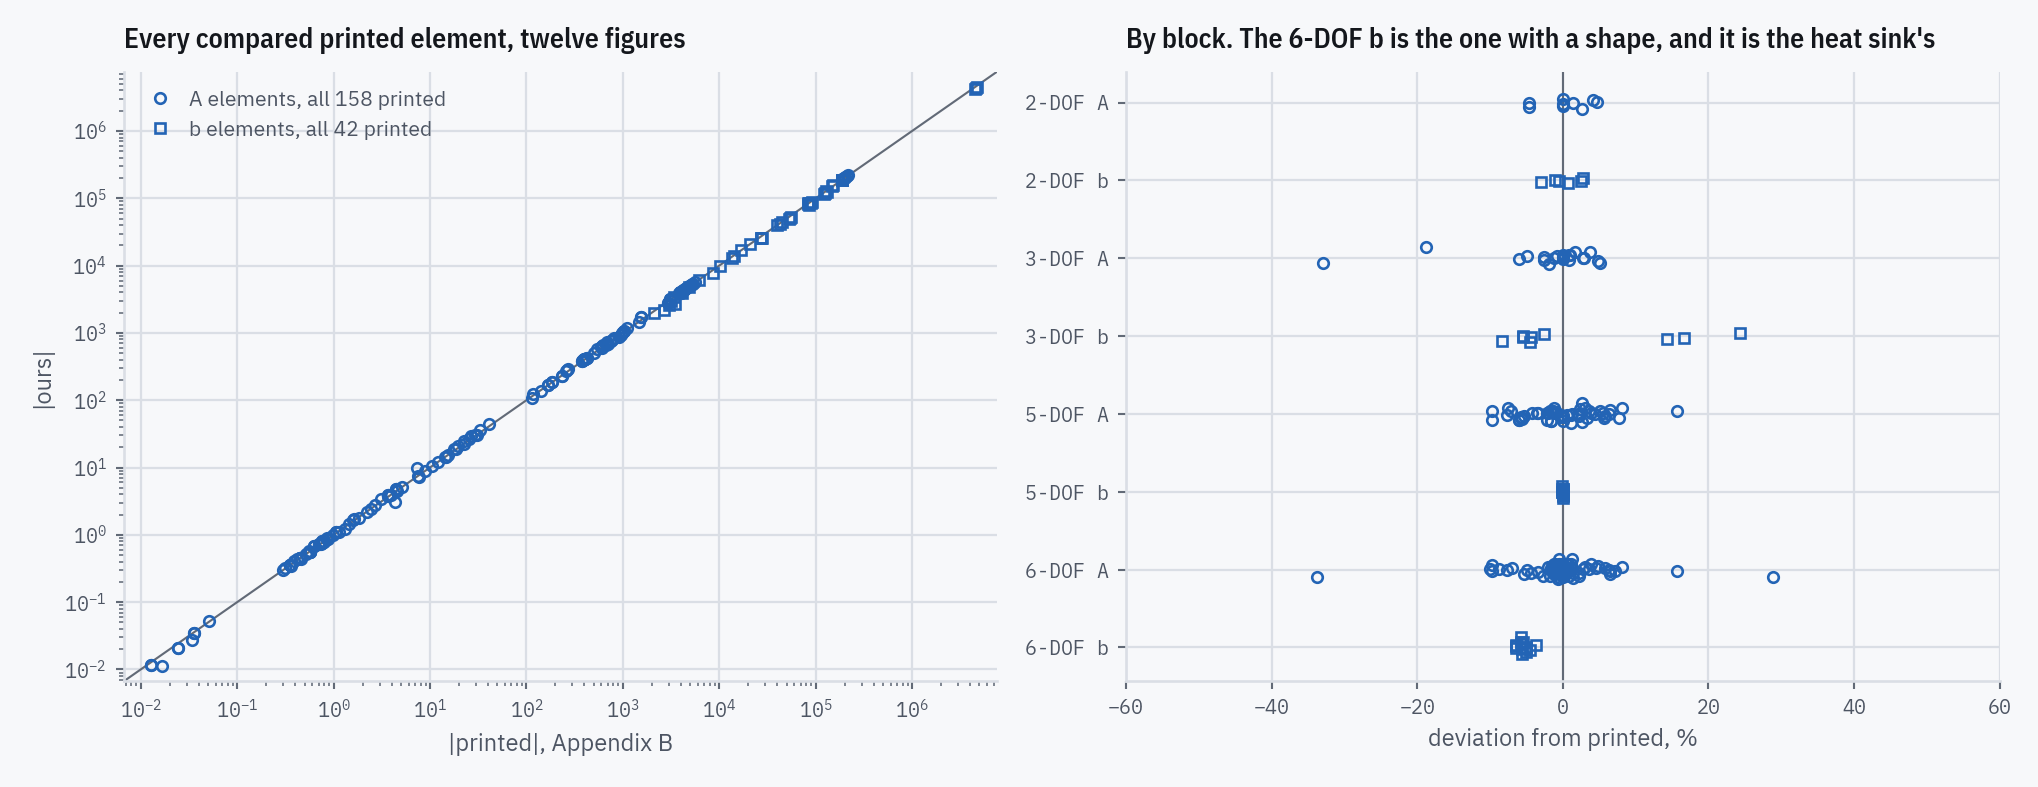
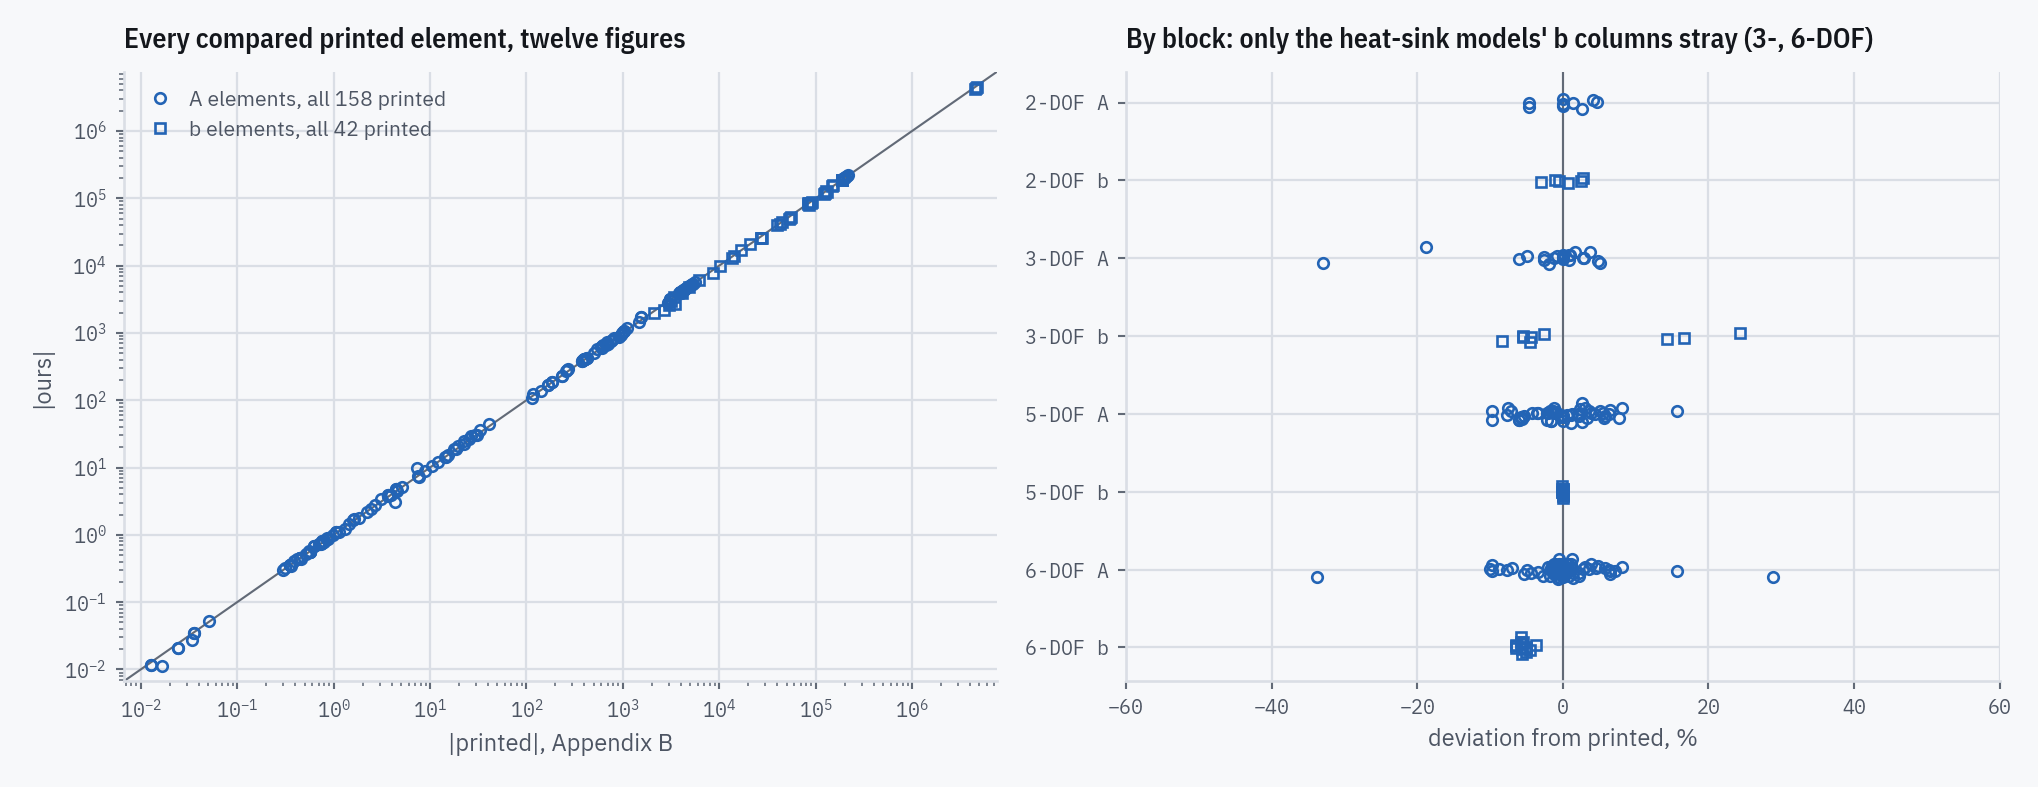
figure wording: "percent" for "per cent"; appendix-b block panel retitled
The Figures 6-8 misses picture and the prose around #83 now say "percent",
the spelling the presentation uses. The appendix-b-elements block panel said
the 6-DOF b was "the one with a shape"; the 3-DOF b strays too and for the
same reason (the heat-sink constant, #31), so the title now names both
heat-sink models. Only the two PNGs change; report.json and every other
figure are byte-identical.

Checked for the deck: with Appendix B's own heat-sink time constants the
6-DOF fuel column's NG, NP, P41 and P45 rows land within 0.2 % at all three
trims, while b(T41) moves from -3.7/-5.4/-5.8 % to +6.1/+5.5/+6.6 %.

Claude-Session: https://claude.ai/code/session_01RjvrKad8gE6F4A3xardmyd

Changed region(s): [[0.5873, 0.0305, 0.9583, 0.061]]

diff --git a/validation/report.py b/validation/report.py
@@ -162,7 +162,7 @@ FIG678_UNIT = {6: ("%NG", "%NG"), 7: ("shp", "shp"), 8: ("psia", "%")}
 """Each figure's miss in its own units, and what it is scored in. The absolute miss where a
 percentage misleads: Figure 6's speed is already a percentage, and Figure 7's shaft power
 falls to 9 shp at the low-power end, where the axis read error alone is 15 % of the value.
-Per cent of his value on Figure 8, whose Ps3 never falls below 60 psia."""
+Percent of his value on Figure 8, whose Ps3 never falls below 60 psia."""
 
 
 def _read_error(file: str, key: str) -> float:
@@ -254,9 +254,9 @@ def steady_sweeps() -> dict:
 
 
 def _steady_misses_picture(misses: dict) -> None:
-    """Each printed point's miss on Figures 6-8, in the figure's own units and in per cent of
+    """Each printed point's miss on Figures 6-8, in the figure's own units and in percent of
     his value, against the axis read error each file's header publishes: constant in units,
-    and in per cent growing as his value falls."""
+    and in percent growing as his value falls."""
     fig, axes = plt.subplots(2, 3, figsize=fs(16.5, 7.4))
     for col, (no, (x, y, absolute, percent, err)) in enumerate(sorted(misses.items())):
         spec = FIG678[no]
@@ -273,7 +273,7 @@ def _steady_misses_picture(misses: dict) -> None:
             top = max(np.abs(v).max(), err if ax is axes[0, col] else 0.0)
             ax.set_ylim(-1.25 * top, 1.25 * top)
             _style(ax, spec["xlabel"], ylabel)
-        for row, what in ((0, own), (1, "per cent of his value")):
+        for row, what in ((0, own), (1, "percent of his value")):
             axes[row, col].set_title(
                 f"Figure {no}, in {what}",
                 loc="left",
@@ -283,7 +283,7 @@ def _steady_misses_picture(misses: dict) -> None:
     plotstyle.title(
         fig,
         "Figures 6-8: each printed point of Ballin's real-time model, our miss in the figure's "
-        "units and in per cent",
+        "units and in percent",
     )
     fig.tight_layout(rect=(0, 0, 1, 0.955))
     save(fig, "figures-6-8-misses")
@@ -717,7 +717,7 @@ def appendix_b() -> dict:
         ax,
         "deviation from printed, %",
         "",
-        "By block. The 6-DOF b is the one with a shape, and it is the heat sink's",
+        "By block: only the heat-sink models' b columns stray (3-, 6-DOF)",
     )
     fig.tight_layout()
     save(fig, "appendix-b-elements")

diff --git a/validation/test_steady_sweeps.py b/validation/test_steady_sweeps.py
@@ -107,7 +107,7 @@ def test_figure_8_ps3_against_ng_tracks_across_the_range():
 def test_figure_7_shaft_power_tracks_across_the_range():
     """Shaft power against fuel flow over every printed point, in shaft horsepower.
 
-    In shp, not per cent: the low-power points fall to 9 shp, where the axis read error alone
+    In shp, not percent: the low-power points fall to 9 shp, where the axis read error alone
     is 15 % of the value, so a percentage there measures the denominator (#83).
     """
     x, y = read_reference("fig07_realtime.csv", "wf_pph", "shp")
@@ -223,7 +223,7 @@ SPEC = {
 
 
 def _spreads(fig: int, series: str):
-    """(Ballin - GE, ours - GE) on GE's own abscissae, in %NG or per cent."""
+    """(Ballin - GE, ours - GE) on GE's own abscissae, in %NG or percent."""
     stem, xc, yc, mode = SPEC[fig]
     bx, by = read_reference(f"{stem}_realtime.csv", xc, yc)
     gx, gy = read_reference(f"{stem}_{series}.csv", xc, yc)
@@ -239,7 +239,7 @@ def _spreads(fig: int, series: str):
 @pytest.mark.parametrize("series", ["ge_status81", "ge_unbalanced"])
 def test_our_distance_from_ge_is_comparable_to_ballins(fig: int, series: str):
     """We sit no further from the GE models than Ballin's own model does, give or take a
-    point and a half. Not a claim that we beat him: a deviation from Ballin of a per cent or
+    point and a half. Not a claim that we beat him: a deviation from Ballin of a percent or
     two is within the scatter of his own validation.
     """
     d_bal, d_our = _spreads(fig, series)
@@ -276,7 +276,7 @@ and 8), for the scatter argument to hold. Set below the measured worst."""
 
 def test_the_two_ge_models_disagree_with_each_other_substantially():
     """GE's own two models differ from each other by far more than we differ from Ballin:
-    whatever "agreement" meant in 1988, it did not mean a few tenths of a per cent.
+    whatever "agreement" meant in 1988, it did not mean a few tenths of a percent.
     """
     for fig in (6, 7, 8):
         stem, xc, yc, mode = SPEC[fig]

diff --git a/tests/test_control_blocks.py b/tests/test_control_blocks.py
@@ -138,7 +138,7 @@ def _tm_null_and_band() -> tuple[float, float]:
 
 @pytest.mark.parametrize("k", [-1.03, -0.97, 0.97, 1.03])
 def test_the_torque_motor_deadband_sits_where_the_printed_biases_put_it(k: float):
-    """Inside the band the integrator never moves; three per cent outside it, it does, and
+    """Inside the band the integrator never moves; three percent outside it, it does, and
     in the direction of the error. Moving the null or the band by 5 % flips one of these."""
     null, half = _tm_null_and_band()
     u = dataclasses.replace(HMU_BASE, spdg=null + k * half)

diff --git a/docs/notes/open-questions.md b/docs/notes/open-questions.md
@@ -97,4 +97,4 @@ gives unless it points to `results/report.json`.
 | 80 | **Which trim and which input do Figures 4 and 5 show?** Both captions say only "a high-power flight condition" [pdf pp.30, 34]; the fuel pulses are drawn, not stated. | Comparing our linear models' time response with Figures 4 and 5 | pdf pp.29-30, 33-34, read from the page images; Appendix B, pdf pp.68-76 | **closed 2026-10-13 — the hover trim, and the input as drawn.** Ballin's own printed hover matrices (B2, B1, and B2 reduced) reproduce Figure 4's linear-model line and Figure 5's 5-DOF curve; the level and descent matrices put Figure 4's first NP peak near 100.5-100.6 % where the figure plots about 100.84. The input is read by `tools/digitize_fig45.py`: four plateaus after trim on printed tick values (105, 95, 100, 102.5 % of trim, each within 0.34 % of panel height), steps at 0.27, 1.29, 2.25 and 5.00 s, the same on both pages within 6 ms. Ballin's 6-DOF curve cannot be recomputed from B8, which is unstable as printed (inventory-appendix-b.md 6), so his Figure 5 inner curve is the only record of it. Held by `validation/test_fig45.py`. |
 | 81 | **How are Figures 11-14 compared without Gen Hel, on what day, and with what collective scale?** Each is Gen Hel with the T700 against flight test [pdf pp.48-52]: a collective input at 90 kt, a lateral cyclic at 55 kt, a collective at hover and pedals at hover. The report prints neither the flight-test day, the gearbox ratio, nor the collective's travel: its figures plot the collective in inches, its fuel control reads it in "percent of maximum" [pdf p.81]. | Comparing our closed loop with Figures 11-14 | pdf pp.47-52 and 81, read from the page images | **closed 2026-10-14, every reading confirmed by the owner — two tests on his inputs as digitized, on a standard day, at his printed NG, the collective read proportionally.** Gen Hel drives the T700 through "a rigid-shaft drive train model" whose degree of freedom "corresponds to that of the drive train and rotor hub" [pdf p.47], so rotor speed in % is NP in %; everything the airframe does reaches the propulsion system through it except the collective, which the fuel control reads itself (Fig. C13, pdf p.90). The flight tests are "single-axis control inputs" [pdf p.47], so the lateral cyclic and pedal cases hold the collective. `validation/test_gen_hel.py` runs two tests (`test_gen_hel.run`). **Rotor speed imposed** (Figures 11-14): his printed main rotor speed is our NP every frame, and on Figures 11 and 13 his collective drives ours; NG, vehicle fuel flow and total torque are predicted. **Rotor free** (Figures 11-15): our rotor turns under the load his felt. With a rigid shaft his load was his engines' torque less J dω/dt, so our NP is his plus e, J de/dt = Q_ours − Q_his − slope·e, with Appendix B's inertia (#6) and slope: his lines go in as digitized, the 17 Hz ripple in the ink (Gen Hel's rotor, pdf p.50) included, and nothing of his is differentiated or smoothed. Figure 15 prints the main-rotor torque, Q_mr of Q_req = Q_mr + Q_tr + Q_acc [pdf p.28], which is the load itself, the tail rotor and accessories taken in proportion; its trim torque is his on our scale (the mean ratio of his torque to ours at Figures 11-14's trims, 65.7-69.0); its collective goes to "the full-down position" [pdf p.50], read as 0 % of maximum at his trace's floor. Readings: the day is standard; the trim is at his printed NG and rotor speed, with the collective at which our HMU commands that trim's fuel flow (`test_hmu_trim.collective_for`), settled in the closed loop with Appendix B's rotor load and slope. Collective scale: his axis starts at 0 in. and ours is percent of maximum, so 0 in. reads as 0 %, and each figure's trim gives its own scale, 8.8 % per inch on Figure 11 and 9.6 on Figure 13; the straight line through both trims would give 13.5. At his NG our engine needs about a fifth more fuel than his trims print, so the flight-test days were not standard (#82); fuel and torque are compared in % of their own trim. Where ours misses his line, the cause is measured in our control, nothing changed to find it: our fuel follows his collective through the HMU's load-demand path (Fig. C17) sooner than his, so on Figures 11 and 13 it turns back 0.07-0.14 s earlier and our rotor overspeeds less (100.46 against 100.77 %, 99.96 against 100.23 %); Figure 13's settled torque is 3 % low at the 9.6 %/in reading and would match at a scale a little below 8.8 %/in, the bottom of the range our two readings span (at 8.0 %/in it reads 84.0 % at 6 s, against his 83.2); at the end of Figure 14 our governor's cut is partly given back by the HMU droop as NG falls, and our fuel bottoms at 81 % of trim against his 76 %; on Figure 15 our fuel falls with the collective and then sits on the deceleration limit (Fig. C22) from 1.5 to 2.7 s, which still gives torque, so our rotor does not overspeed, slows at 1.0 %/s against his 3.2 %, and dips 0.74 s later, as deep. Kept as a recorded finding, by the owner's choice: on Figure 15 a flat line at the trim misses his rotor speed by 1.49 times ours, under the decoy ratio of 1.5, because our dip, as deep as his, comes 0.74 s late; the test is marked as an expected failure with that reason. Held by `validation/test_gen_hel.py`. |
 | 82 | **What day did Figures 11-14 fly, and what is the gearbox ratio?** Neither is printed [pdf pp.47-52]; on a standard day our engine needs about a fifth more fuel and a fifth more torque at his NG than his trims print, on every figure. | Comparing fuel and torque levels with Figures 11-14, and the trim the transients start from | pdf pp.47-52 read from the page images; Table B.1's trims are sea level standard [pdf p.67], these flights are not | **closed 2026-10-14 — the comparisons stay on a standard day; the two inferred days are evidence, never constants.** The owner chose this: the report prints no day. His eight trim numbers (fuel and torque, four figures) against our trims at his NG, his torque through one gearbox ratio shared by all four (`validation/test_flight_test_day.py`): A, 59 deg F on every day, fits with a pressure per figure (11.9-12.3 psia) and a ratio near 82, 0.6 % rms; B, one temperature common to the four days, fits eight times closer, 0.08 % rms, at about 79 deg F, 13.0-13.3 psia and a ratio near 89. Rerun on the inferred days, the transients improve a little on A (the rotor-free test's rotor speed on all four figures) and are mixed on B. Neither is adopted: the comparisons stay on a standard day, in % of trim (#81). |
-| 83 | **In what units is each of Figures 6-8 scored?** Each point's miss can be read in the figure's own units or in per cent of his value; the report states no score for these figures. | The steady-sweep scores (`report.py::steady_sweeps`, `test_steady_sweeps`) | Figures 6-8, pdf pp.40-42, every printed marker digitized (`tools/digitize_fig678.py`; overprinted ones are taken apart, recipe trap 13); each file's header publishes its axis read error | **closed 2026-10-15 by the owner — Figure 6 in %NG points, Figure 7 in shaft horsepower, Figure 8 in per cent.** Figure 7's low-power end falls to 9 shp, where its axis read error of 1.4 shp is 15 % of the value: in per cent one point there dominated the score (+0.98 shp read as +10.6 %), while in shp the low end is as close as anywhere. Figure 6's ordinate is already a percentage; Figure 8's Ps3 never falls below 60 psia. `report.json` carries both readings for all three figures (`steady.figure_N.absolute`, `.percent`), drawn point by point against the read error in `results/figures-6-8-misses.png`. Bounds: `test_steady_sweeps.FIG7_RMS_SHP` and `FIG7_WORST_SHP`, declared in SCOPE.md. |
+| 83 | **In what units is each of Figures 6-8 scored?** Each point's miss can be read in the figure's own units or in percent of his value; the report states no score for these figures. | The steady-sweep scores (`report.py::steady_sweeps`, `test_steady_sweeps`) | Figures 6-8, pdf pp.40-42, every printed marker digitized (`tools/digitize_fig678.py`; overprinted ones are taken apart, recipe trap 13); each file's header publishes its axis read error | **closed 2026-10-15 by the owner — Figure 6 in %NG points, Figure 7 in shaft horsepower, Figure 8 in percent.** Figure 7's low-power end falls to 9 shp, where its axis read error of 1.4 shp is 15 % of the value: in percent one point there dominated the score (+0.98 shp read as +10.6 %), while in shp the low end is as close as anywhere. Figure 6's ordinate is already a percentage; Figure 8's Ps3 never falls below 60 psia. `report.json` carries both readings for all three figures (`steady.figure_N.absolute`, `.percent`), drawn point by point against the read error in `results/figures-6-8-misses.png`. Bounds: `test_steady_sweeps.FIG7_RMS_SHP` and `FIG7_WORST_SHP`, declared in SCOPE.md. |

diff --git a/SCOPE.md b/SCOPE.md
@@ -153,7 +153,7 @@ report, so never quote one as a result.
 | Settled state vs the Fig. 6-8 sweep | +/-0.5 % | `test_figure_consistency.BOTH_SIDES_TOL_PCT`. At 775 lbm/hr the sweeps and Figure 9 disagree because Figure 9 has not settled when its record ends; the model matches both at once, its settled state against the sweep and its state at the record's end against Figure 9 |
 | Fig. 9/10 initial trim vs the figure | +/-1.5 % | `test_fuel_step.INITIAL_TOL_PCT`; this is the same physics the steady tests already check |
 | Steady sweep vs Figure 6's real-time series | rms 0.35 %NG, worst 1.25 %NG | `test_steady_sweeps.FIG6_RMS_PCT_NG` and `test_steady_sweeps.FIG6_WORST_PCT_NG`. Both sit above the measured values (README, Figure 6 row), so they catch a regression rather than certify agreement |
-| Steady sweep vs Figure 7's real-time series | rms 2.5 shp, worst 6.5 shp | `test_steady_sweeps.FIG7_RMS_SHP` and `test_steady_sweeps.FIG7_WORST_SHP`. In shaft horsepower, not per cent: the low-power end falls to 9 shp, where the axis read error alone is 15 % of the value (#83). Both sit above the measured values (README, Figure 7 row), so they catch a regression rather than certify agreement |
+| Steady sweep vs Figure 7's real-time series | rms 2.5 shp, worst 6.5 shp | `test_steady_sweeps.FIG7_RMS_SHP` and `test_steady_sweeps.FIG7_WORST_SHP`. In shaft horsepower, not percent: the low-power end falls to 9 shp, where the axis read error alone is 15 % of the value (#83). Both sit above the measured values (README, Figure 7 row), so they catch a regression rather than certify agreement |
 | Fig. 9/10 settled state vs the figure | +/-1 %, both figures | `test_fuel_step.FINAL_TOL_PCT`. Compared over the reference's own last samples, up to where Ballin's record stops at the panel frame, not to the end of our run: on Figure 10 nothing has settled by then (#68) |
 | Whole-curve RMS, normalised by each panel's excursion | **4 % ratchet** | `test_whole_curve.WHOLE_CURVE_RMS_CEILING_PCT`. Not a tolerance: set just above the worst measured panel, so a regression fails and an improvement is free. Today, over ten panels with the riser excluded, **0.62<!--rj:whole_curve_summary.min-->–3.80 %<!--rj:whole_curve_summary.max-->**, mean 1.64 %<!--rj:whole_curve_summary.mean--> |
 | Step-edge jump across the riser hole | +/-12 % of panel excursion | `test_whole_curve.STEP_JUMP_TOL_PCT`. A line tracer cannot follow a vertical edge, so each reference trace has a sampling hole at the fuel step; the chord `np.interp` would draw across it is excluded from the whole-curve metric (#66), and the edge's size is asserted here instead, since the hole's two endpoints are Ballin's |
